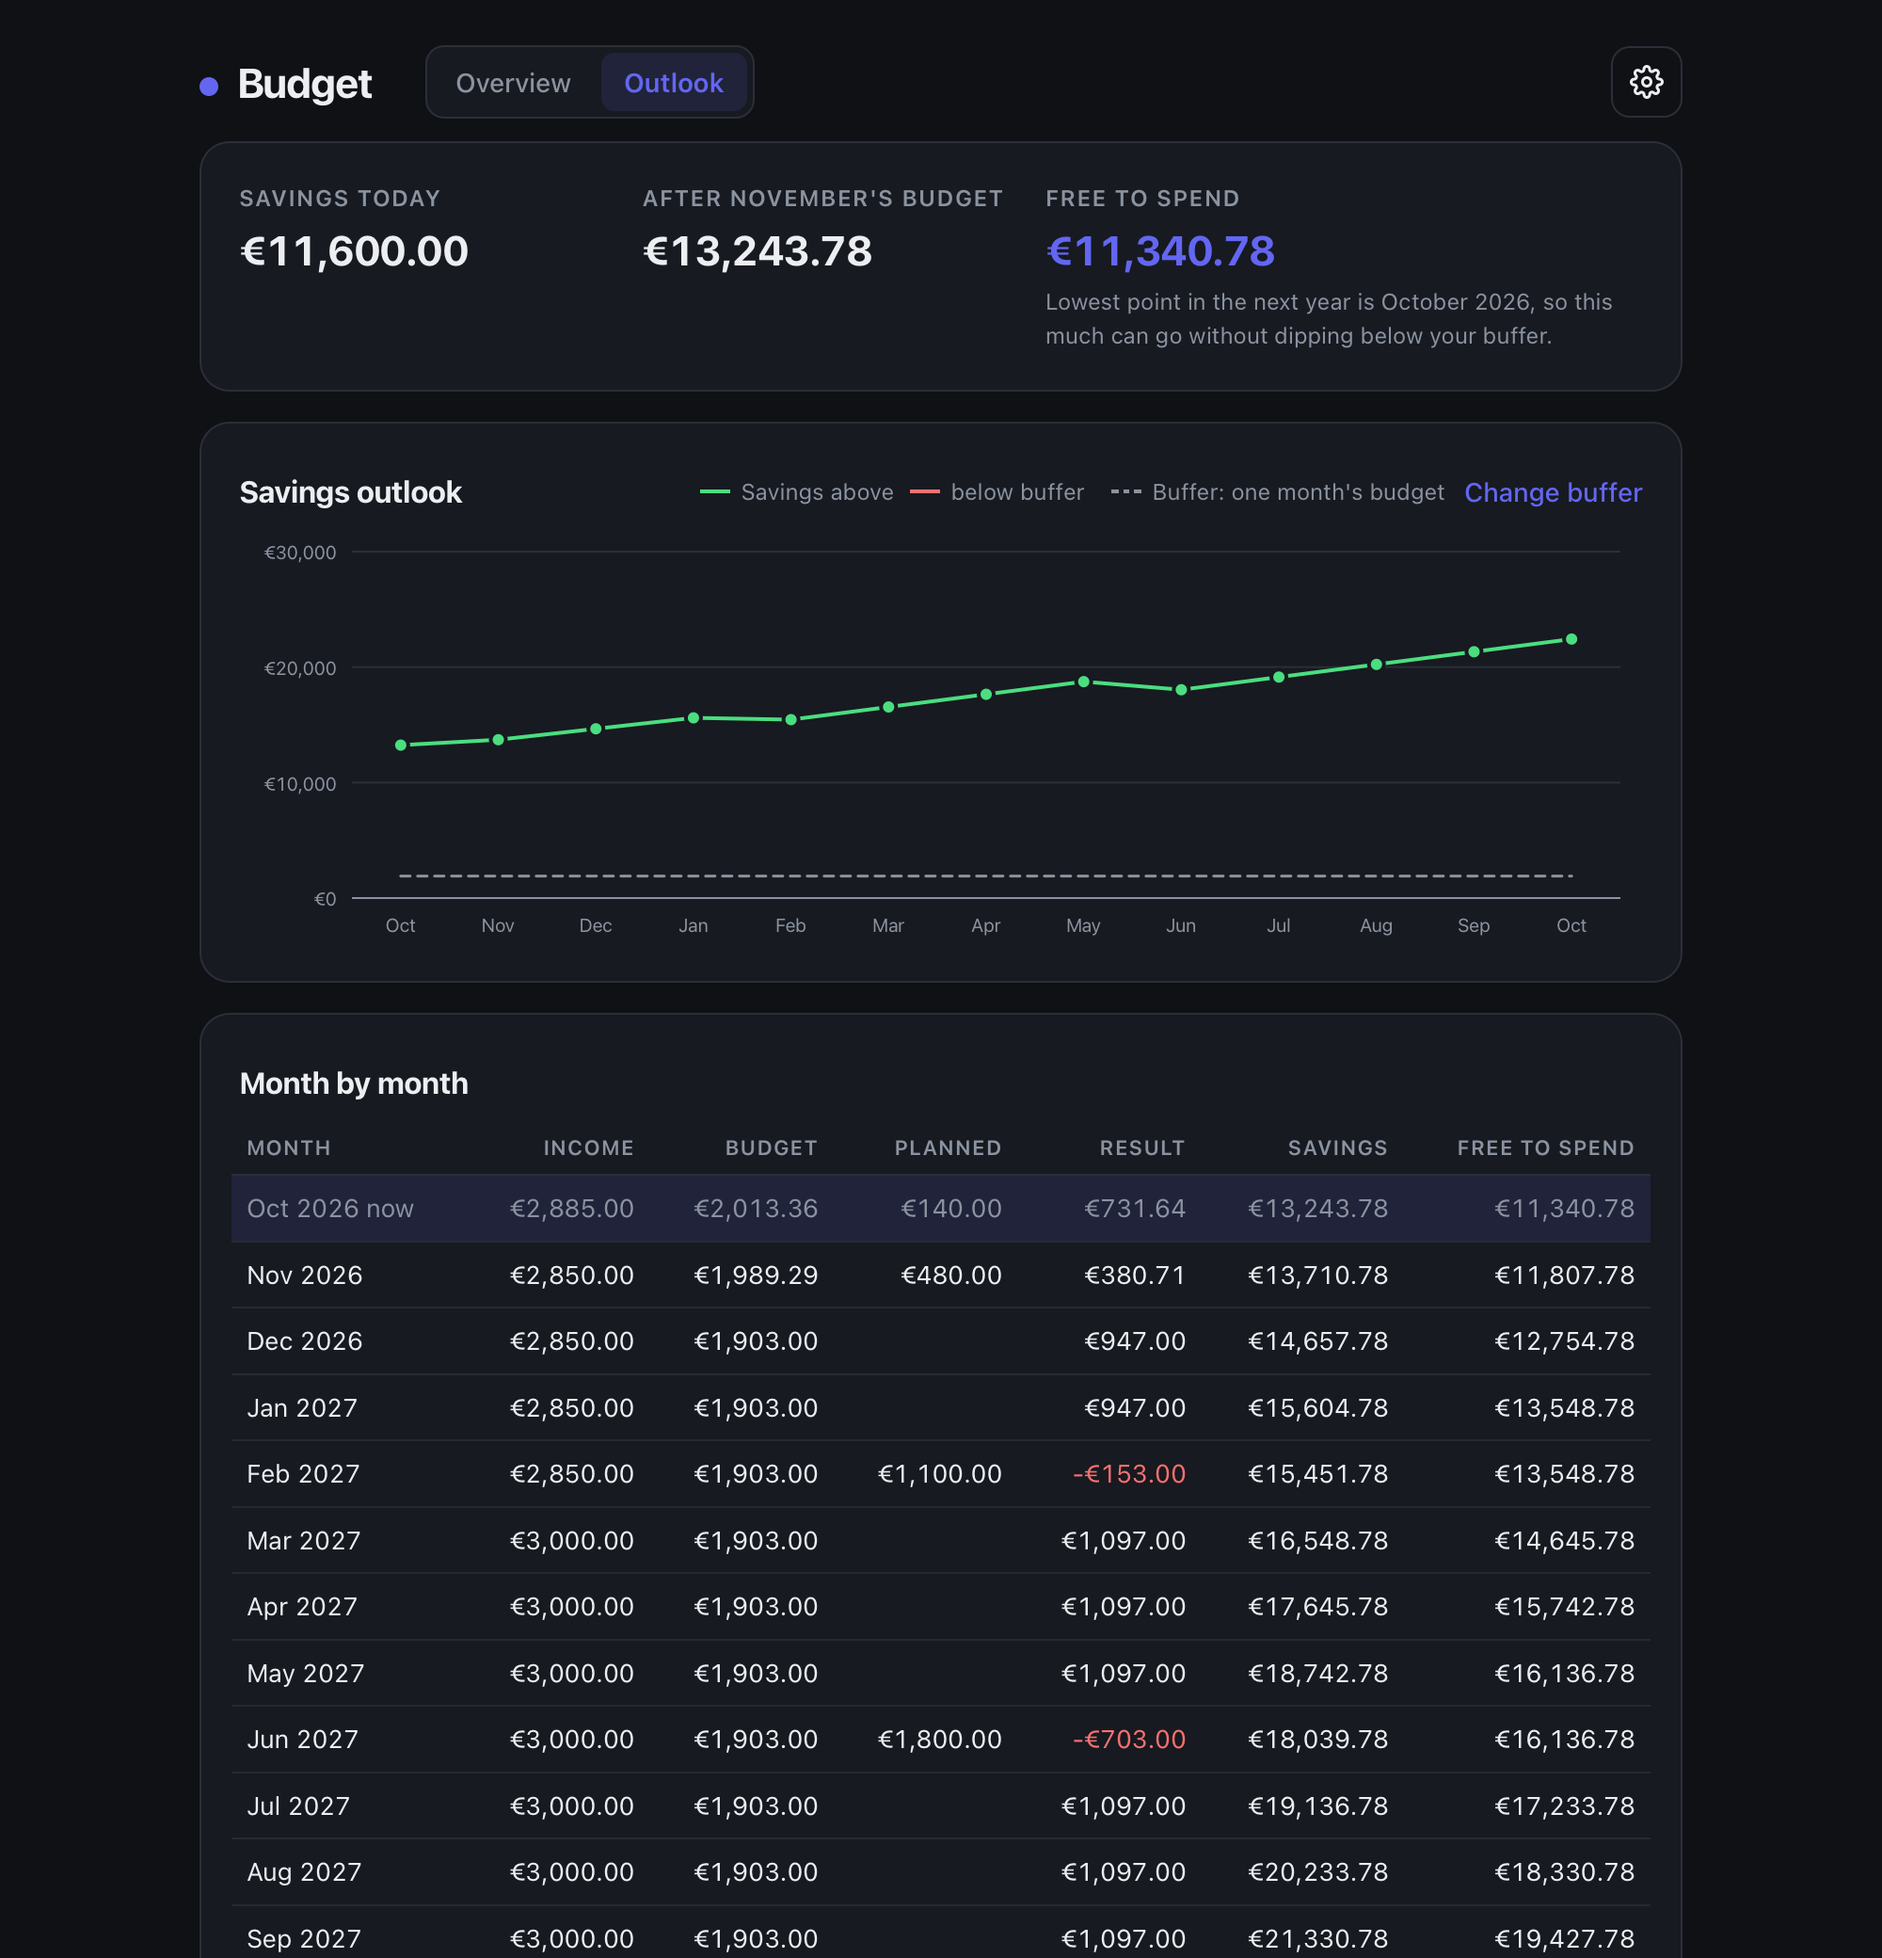
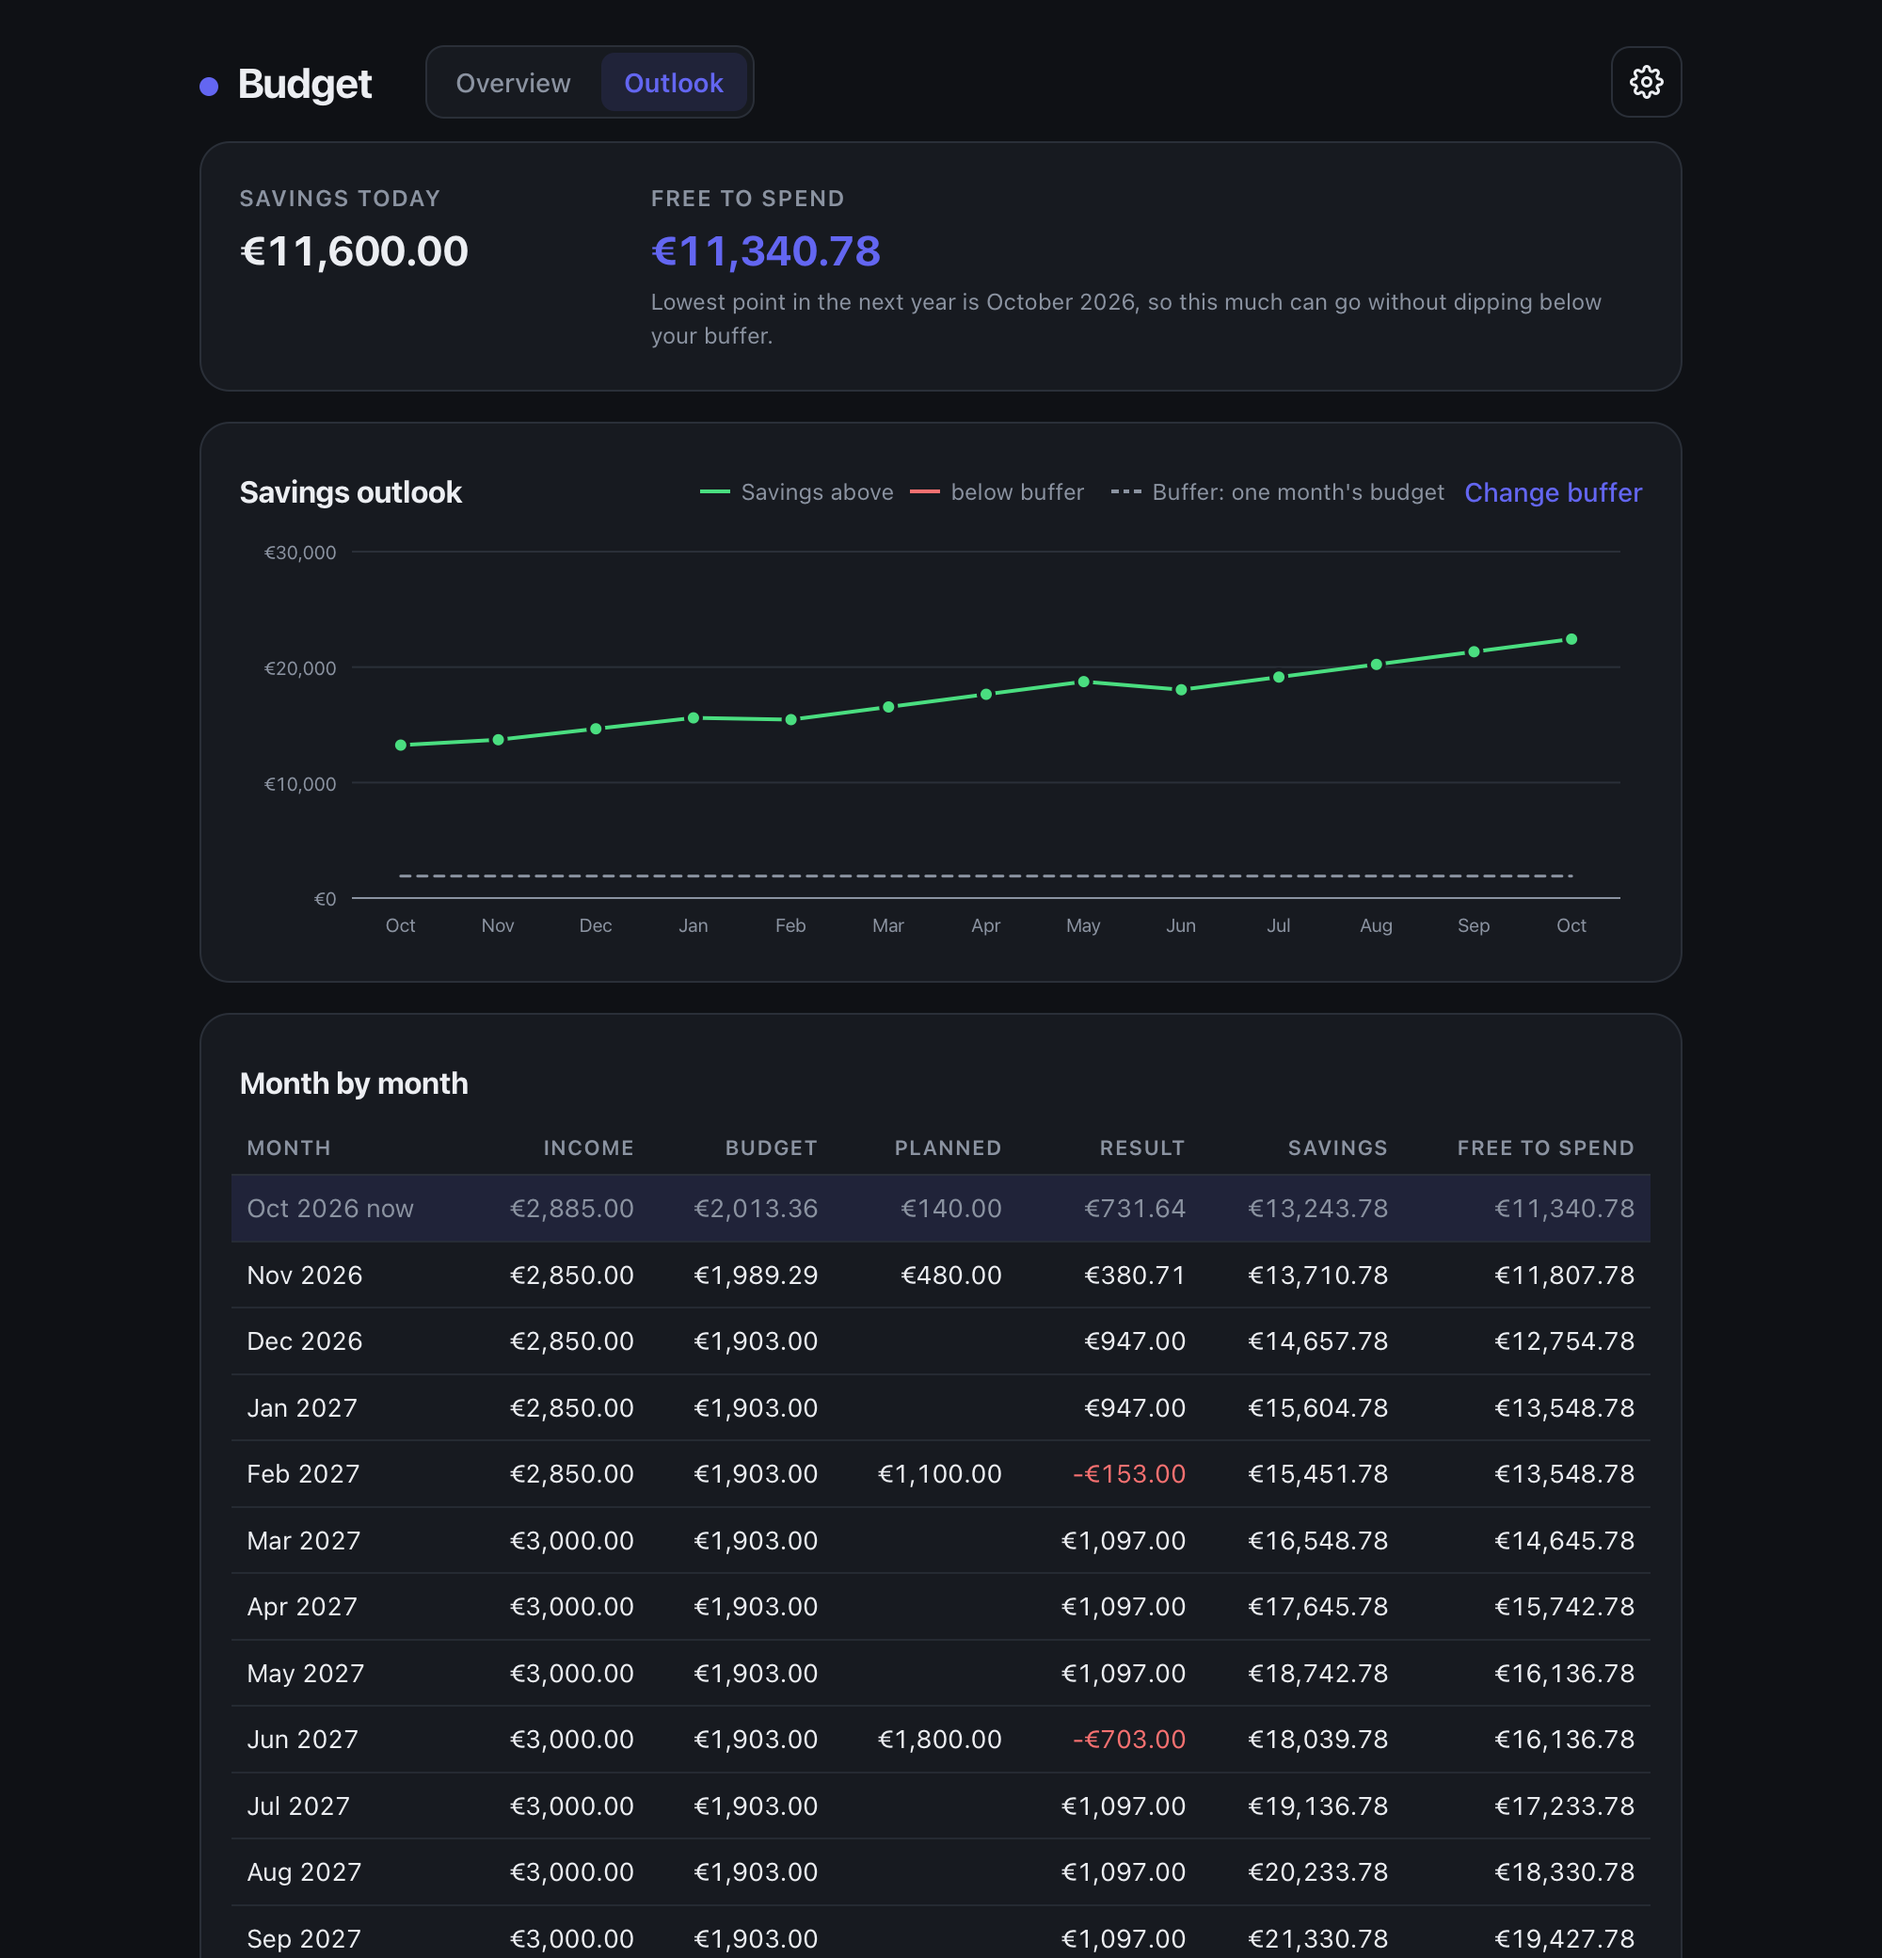
Show savings after next month's budget only when savings are needed

Changed region(s): [[0.558, 0.0938, 0.806, 0.1875], [0.341, 0.0938, 0.527, 0.1875]]

diff --git a/static/js/outlook.js b/static/js/outlook.js
@@ -26,9 +26,12 @@ export async function renderOutlook() {
   $("#buffer-label").textContent = `Buffer: ${bufferText()}`;
   const lowName = monthName(projection.low_month);
   const below = projection.low_above < 0;
+  // Only when savings are needed for next month does it explain anything to show them go down.
+  const fromSavings = projection.next_month.short_if_spent > 0;
+  $("#outlook-summary").classList.toggle("two-tiles", !fromSavings);
   $("#outlook-summary").innerHTML = `
     <div class="tile"><span class="label">Savings today</span><span class="tile-value">${money(projection.savings_today)}</span></div>
-    <div class="tile"><span class="label">After ${monthOnly(rows[1].month, "long")}'s budget</span><span class="tile-value">${money(rows[0].savings)}</span></div>
+    ${fromSavings ? `<div class="tile"><span class="label">After ${monthOnly(rows[1].month, "long")}'s budget</span><span class="tile-value">${money(rows[0].savings)}</span></div>` : ""}
     <div class="tile ${below ? "short" : "ok"}">
       <span class="label">${below ? "Below your buffer" : "Free to spend"}</span>
       <span class="tile-value">${money(below ? -projection.low_above : rows[0].free)}</span>

diff --git a/static/style.css b/static/style.css
@@ -509,3 +509,5 @@ button:focus:not(:focus-visible) { outline: none; }
 .outlook-notice { grid-column: 1 / -1; margin-top: 0; }
 
 .outlook-table tr.now td.neg { color: var(--danger); }
+
+@media (min-width: 641px) { .outlook-summary.two-tiles { grid-template-columns: 1fr 2.6fr; } }
